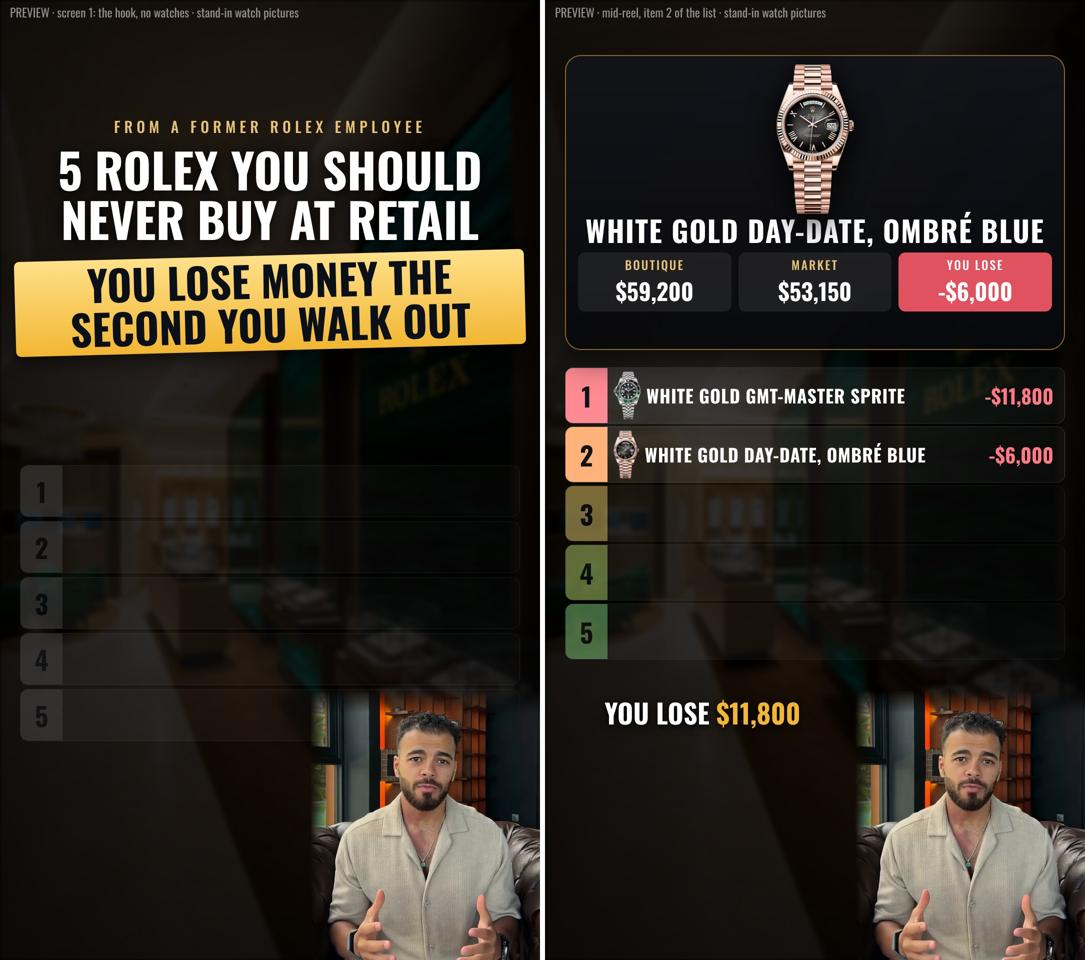
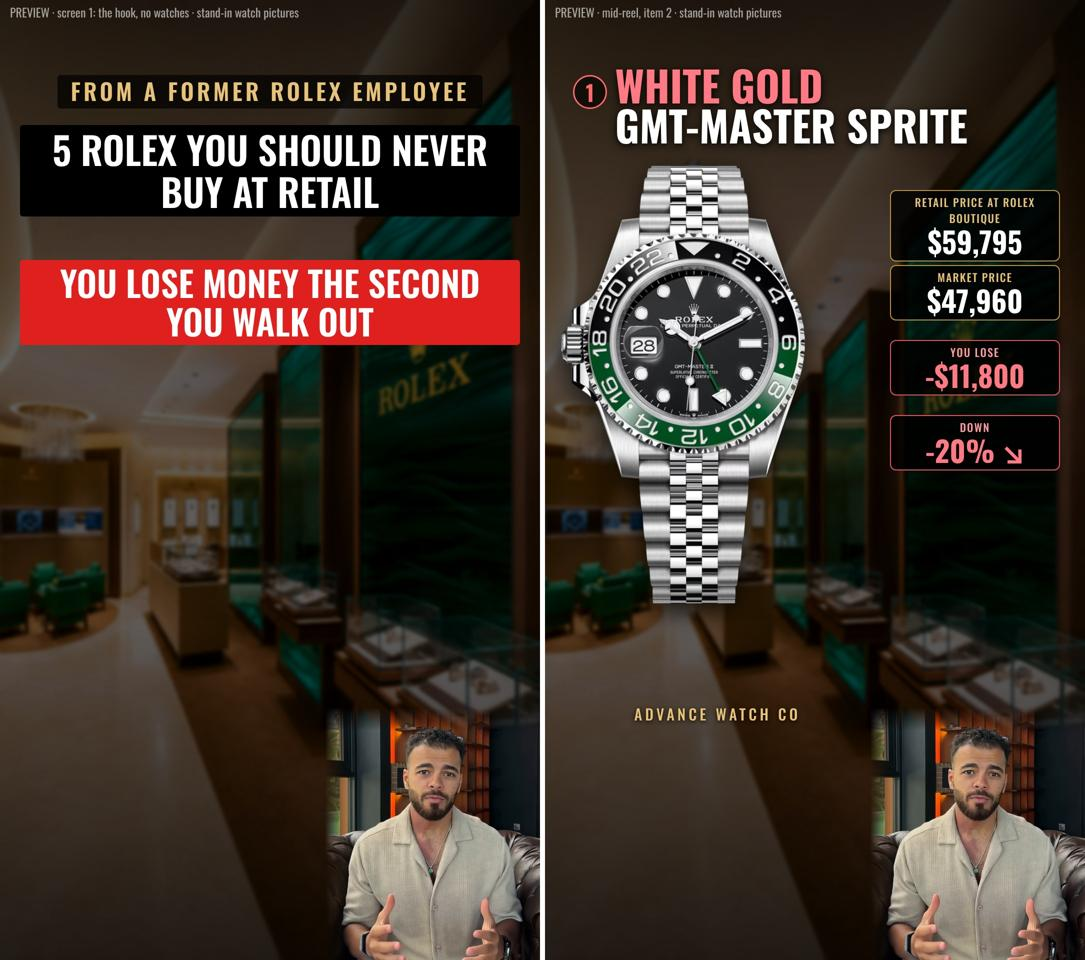
Five reels: visual concepts copied from the originals
Claude-Session: https://claude.ai/code/session_0196sG434LsFacRR9je27wED

diff --git a/reels/scripts/five_top_reels.md b/reels/scripts/five_top_reels.md
@@ -1,8 +1,10 @@
 # 5 top-viral reels to recreate: scripts for your approval
 Nothing is made and no credits are spent until you say "make it" for each one.
-Look: corner layout, you bottom-right, faded boutique background, hook first with no watches, watches appear as you say them, 50 fps, natural audio. Shirts alternate: R1 green, R2 beige, R3 green, R4 beige, R5 green.
+Look: you bottom-right, hook first with no watches, 50 fps, natural audio. Each reel copies the visual concept of YOUR original video of that reel (see 'Visual' under each). Only R5 is a ranking-board reel. Shirts alternate: R1 green, R2 beige, R3 green, R4 beige, R5 green.
 
 ## R1. 571K "5 Rolex you should never buy at retail" (gold lineup) | green | about 60 s, about 21 credits
+Visual (your v7 video): bright boutique photo, one big watch in the middle per item, black price tags "ROLEX PRICE" then "MARKET PRICE", then a red loss box. Hook screen has no watches.
+
 From a former Rolex employee: don't buy these watches, because you are guaranteed to lose money. Five Rolex watches you should never buy at retail.
 One. The full rose gold GMT. It's $58,100 at the Rolex boutique, and in the market it's $48,500. That's $10,000 down the second you walk out of the boutique.
 Two. The full gold Sky-Dweller. It's $67,200 at the Rolex boutique, and in the market it's $55,400. That's $12,000 lost.
@@ -12,6 +14,8 @@ Five. The full gold Day-Date, diamond dial and diamond bezel. It's $85,100 at th
 Send this video to someone about to go to the Rolex boutique and overpay.
 
 ## R2. 477K "You'll lose money the second you walk out" (gold and platinum lineup) | beige | about 58 s, about 19 credits
+Visual: same family as R1 but a different look: numbered title, watch on the left, a red price-box stack on the right (retail, market, YOU LOSE, % down).
+
 From a former Rolex employee: five Rolex watches you should never buy at retail. You lose money the second you walk out.
 One. White gold GMT-Master Sprite. It's $59,795 at the Rolex boutique, and $47,960 in the market. You lose $11,800.
 Two. White gold Day-Date, ombré blue dial. It's $59,200 at the Rolex boutique, and $53,150 in the market. You lose $6,000.
@@ -21,6 +25,8 @@ And five. Deepsea blue. It's $18,815 at the Rolex boutique, and $16,900 in the m
 DM me for price and availability.
 
 ## R3. 475K "5 Rolex going up in value" | green | about 70 s, about 23 credits
+Visual (your v8 video): numbered gold circle and watch name at the top, watch on the left, four price boxes on the right (retail price at Rolex boutique, market price, profit, profit up %), "ADVANCE WATCH CO" at the bottom.
+
 From a former Rolex employee: these five Rolex watches are always going up in value.
 One. The GMT-Master Pepsi. It's $13,000 at the Rolex boutique, and in the market it's selling for $35,400. That's $22,400 profit, 172% up in value.
 Two. The Daytona Panda. It's $18,300 at the Rolex boutique, and in the market $38,700. That's $20,400 profit, 111% up.
@@ -34,6 +40,8 @@ Your current store prices are different from those market numbers, so there are 
 - Option B (recommended): refresh the market side from your store today: Pepsi $31,314 (+$18,300, +141%); Daytona Panda $39,483 (+$21,200, +116%); Sky-Dweller green $27,229 (+$7,600, +39%); Datejust mint $18,652 (+$5,600, +43%); Day-Date Everose slate ombré $65,350 (+$5,900, +10%). Boutique prices unchanged (I can't confirm Rolex's current list prices).
 
 ## R4. 463K "6 Rolex that lost their value" | beige | about 70 s, about 23 credits
+Visual (your original video): your website product page for each watch, with the VALUE now shown on screen (peak price and today's price) as you say it, which the original did not do.
+
 From a former Rolex employee: six Rolex watches lost their value, and I will never recommend any of them.
 One. Rolex Air-King. It peaked at $8,500 in 2020, today it's $7,600. No nickname, no waitlist, and no collector chasing it. High supply and no demand.
 Two. Rolex Milgauss. It hit $22,000 in 2020, now it's under $11,000. That's a 52% drop, and no collector is interested.
@@ -43,7 +51,17 @@ Five. Full yellow gold Sky-Dweller. Another big chunky watch, in full flashy yel
 Six. Rolex Deepsea Challenge. It's an incredible watch, but think about it: who will put a 50 mm watch on their wrist, and when you want to sell it, you will have a real challenge finding a buyer.
 Now tell me, which watch in your opinion lost the most hype? Drop it in the comments.
 
+## R4 on-screen values (needs your numbers where marked)
+1. Air-King: peak $8,500 (2020), today $7,600 (your numbers). Note: your store lists the Air-King 126900 at 36,000 AED = $9,803 today, so please confirm $7,600.
+2. Milgauss: $22,000 (2020), now under $11,000, -52% (your numbers).
+3. Explorer: NEED your peak and today numbers. (Store today: Explorer II 226570 = 45,000 AED = $12,253.)
+4. Two-tone Sea-Dweller: NEED your numbers. (Store today: 126603 = 85,000 AED = $23,145, the steel one is 58,000 AED = $15,794.)
+5. Full yellow gold Sky-Dweller: 20 to 30% below retail (your words). Needs the retail number to show dollars.
+6. Deepsea Challenge: NEED your numbers.
+
 ## R5. 106K "Top 5 picks for your first Rolex" | green | about 52 s, about 17 credits
+Visual: the ranking board (this is a ranking reel): Entry, Sport, Statement, Icon, Luxury rows filling with your picks.
+
 From a former Rolex employee: the top five picks for your first Rolex, ranked from entry to luxury.
 One. The Datejust, green or Wimbledon dial. That's your entry level, the perfect everyday classic.
 Two. The Submariner, black or green. The ultimate sport Rolex, and it holds value like a rock.
